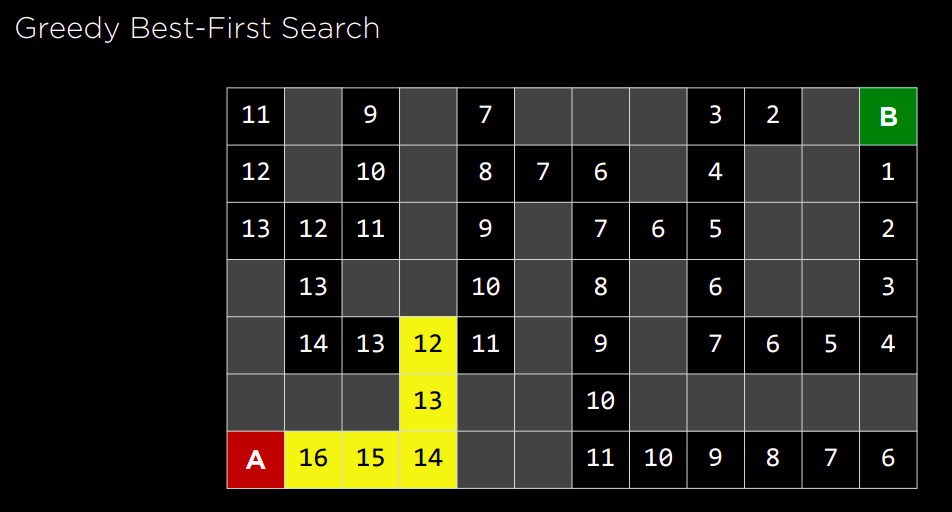
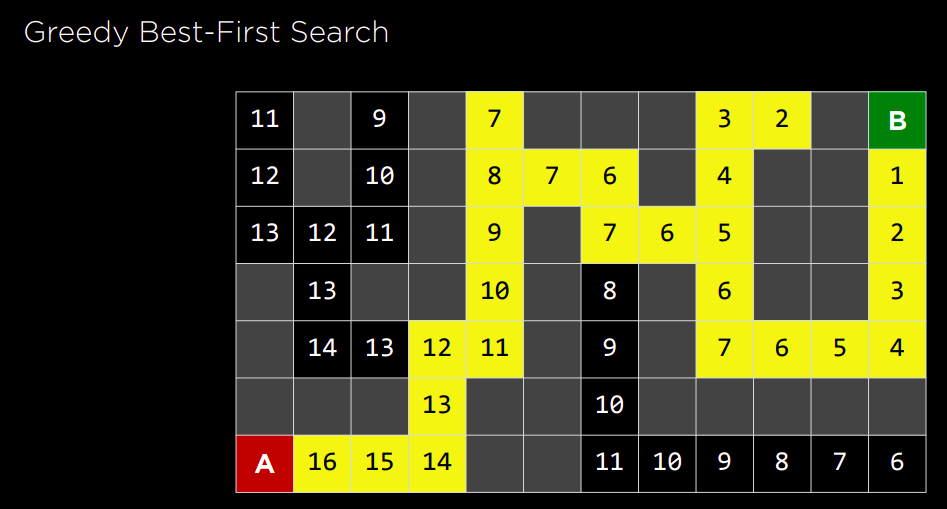
GBFS & A*

Changed region(s): [[0.2144, 0.1473, 0.9799, 0.9725], [0.0, 0.0295, 0.3981, 0.0884]]

diff --git a/Lecture0/Lecture0.md b/Lecture0/Lecture0.md
@@ -71,9 +71,20 @@ https://cs50.harvard.edu/ai/2020/notes/0/
 
 ### Types of informed search algorithms
 
-- greedy best-first search (GBFS) - search algorithm that expands the node that is closesd to the goal, as estimated by a heuristic function <em>h(n)</em>
-- heuristic function - takes a state as input and returns an estimate of how close we are to the goal
-    - e.g. for a maze, it can estimate based on (x, y) coordinates if a square is closer to the goal than another
-    - it can use the <b>'Manhattan distance'</b> for a maze as the heuristic type - ignoring the walls to 'relax' the problem, how many squares / steps, vertically and horizontally (not diagonally), are needed to get to the goal from a specific square
-    - it isn't a guarantee of how many steps it's going to take, it's only an estimation
-- we will always explore the node that has the smallest value for the heuristic function - if it has the smallest Manhattan distance to the goal
+- Greedy best-first search (GBFS) 
+    - search algorithm that expands the node that is closesd to the goal, as estimated by a heuristic function <em>h(n)</em>
+    - 'greedy' because it selects the best option locally, which isn't necessarily optimal in the big picture
+    - heuristic function - takes a state as input and returns an estimate of how close we are to the goal
+        - e.g. for a maze, it can estimate based on (x, y) coordinates if a square is closer to the goal than another
+        - it can use the <b>'Manhattan distance'</b> for a maze as the heuristic type - ignoring the walls to 'relax' the problem, how many squares / steps, vertically and horizontally (not diagonally), are needed to get to the goal from a specific square
+        - it isn't a guarantee of how many steps it's going to take, it's only an estimation
+    - we will always explore the node that has the smallest value for the heuristic function - if it has the smallest Manhattan distance to the goal
+- A* search
+    - search algorithm that expands the node with the lowest value of <em>g(n) + h(n)</em>
+        - g(n) = cost to reach node
+        - h(n) = estimated cost to goal
+    - optimal if:
+        - <em>h(n)</em> is admissible (never overestimates the true cost - get it exactly right or underestimate), and
+        - <em>h(n)</em> is consistent (for every node <em>n</em> and successor <em>n'</em> with step cost <em>c, h(n) <= h(n') + c</em>)
+    - it does have a tendency to use quite a bit of memory
+- Search algorithms tend to be optimised for different use cases but it's choosing the heuristic that can be the interesting challenge
